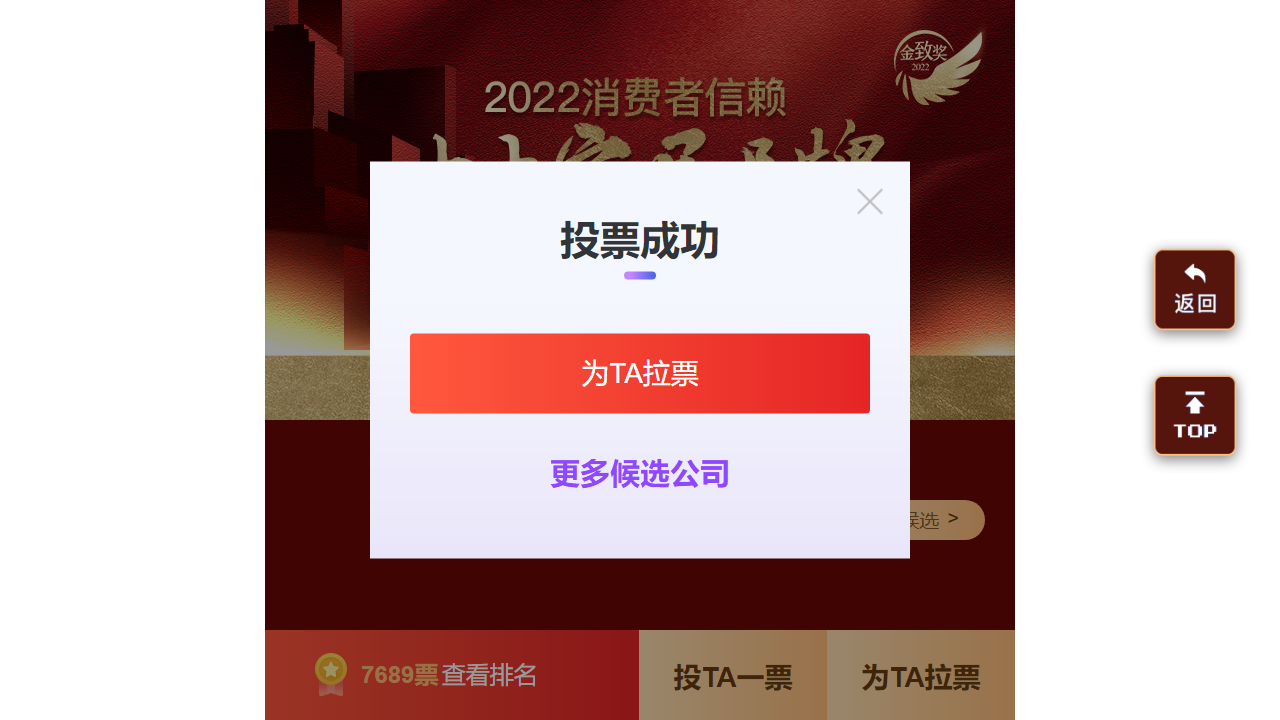
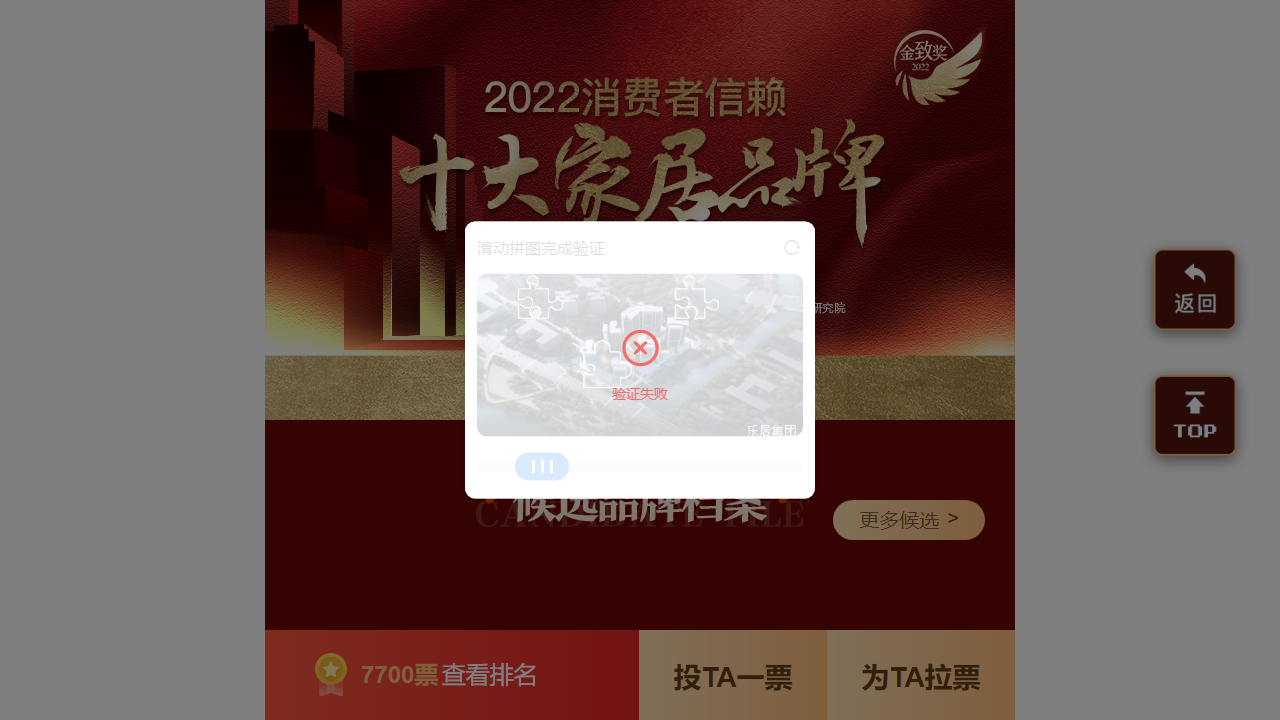
添加计时

diff --git a/index.js b/index.js
@@ -4,17 +4,21 @@ const getImagePos = require('./handleCanvas');
 
 const webUrl = 'https://big16.leju.com/vote/detail/96/1368';
 
-(async () => {
-    const browser = await chromium.launch();
-    const page = await browser.newPage();
-    
+const total = 5;
+let i = 1;
+
+async function main () {
+    if (i > total) return console.log(`共完成：${i}次`)
     try {
-        
+        const browser = await chromium.launch();
+        const page = await browser.newPage();
         page.once('load', () => console.log('Page loaded!'));
-        page.once('pageerror', (err) => console.log(err));
 
         await page.goto(webUrl);
         // sleep(1000);
+        console.log(`--- 第 ${i} 次开始 ---`)
+
+        console.log('当前票数：', await page.innerText('.js_vote_count'))
 
         await voteBtnClick(page)
 
@@ -53,14 +57,20 @@ const webUrl = 'https://big16.leju.com/vote/detail/96/1368';
         sleep(1000);
 
         await page.screenshot({ path: `example.png` });
-        console.log('完成')
+        console.log(`--- 完成 ---`)
+        i++
 
         await browser.close();
+
+        main();
     } catch (error) {
         console.log('error', error)
         browser.close();
+        i++
+        main();
     }
-})();
+}
+main();
 
 async function voteBtnClick (page) {
     const allResultsSelector = '.js_active_vote_btn';
